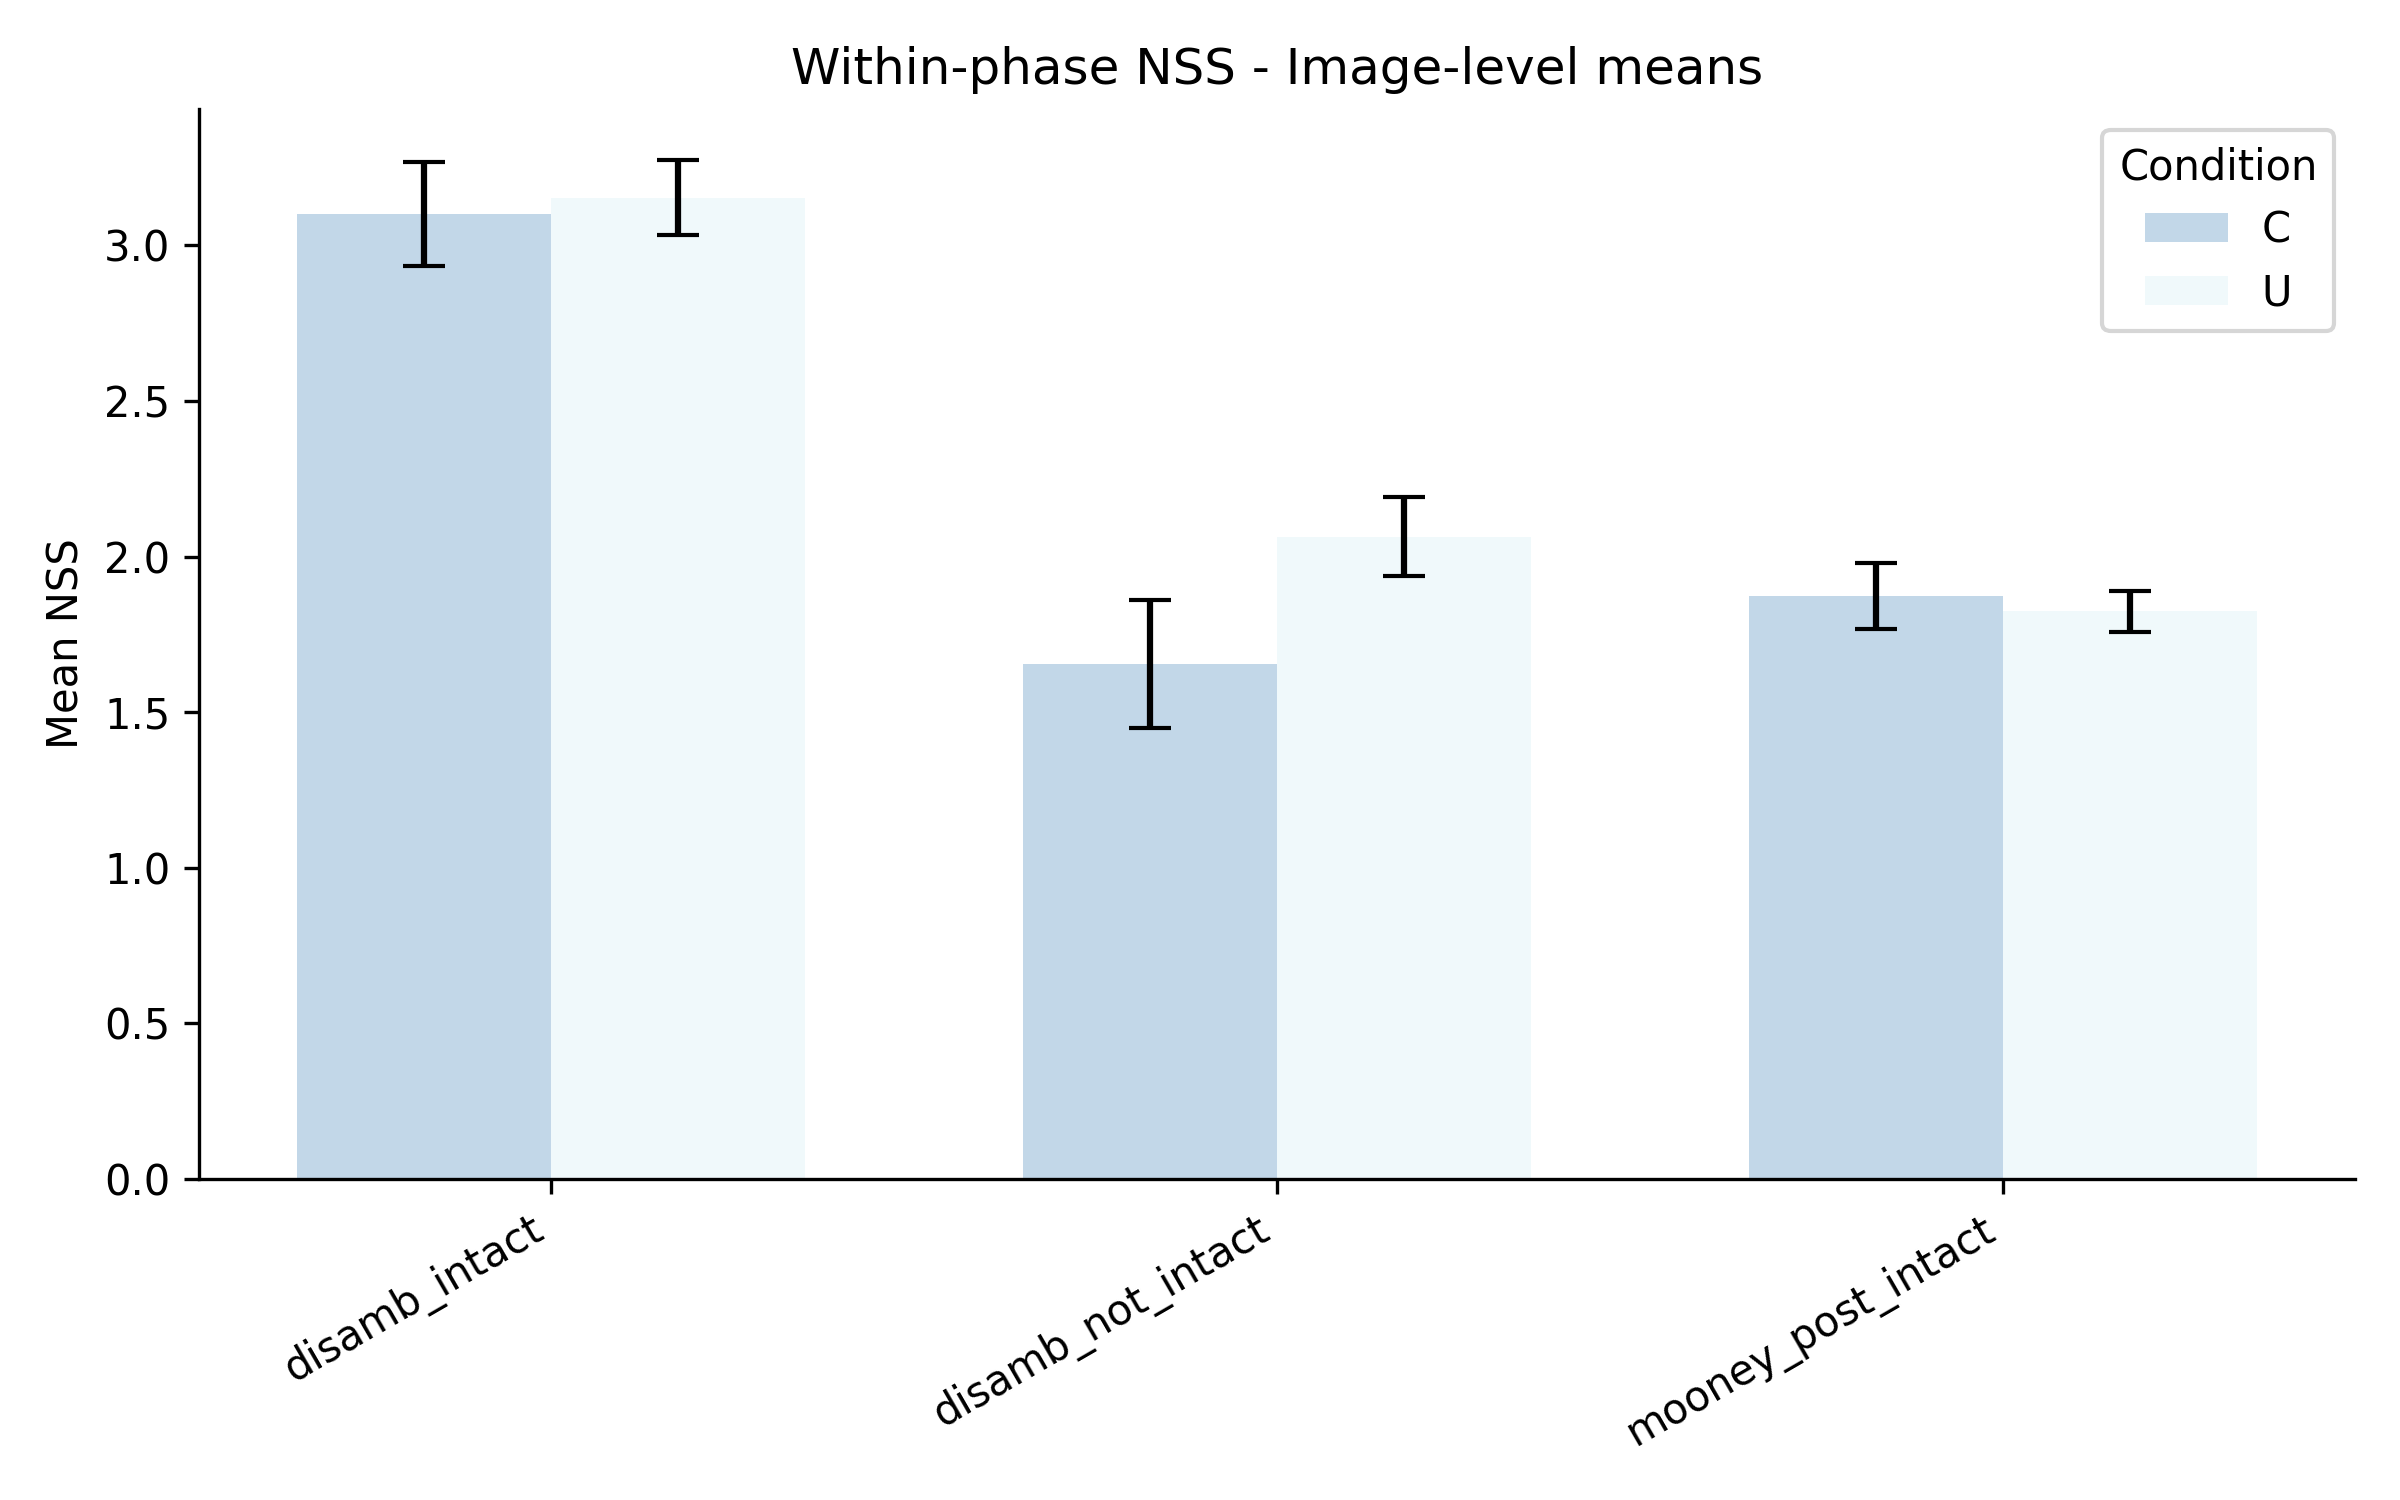
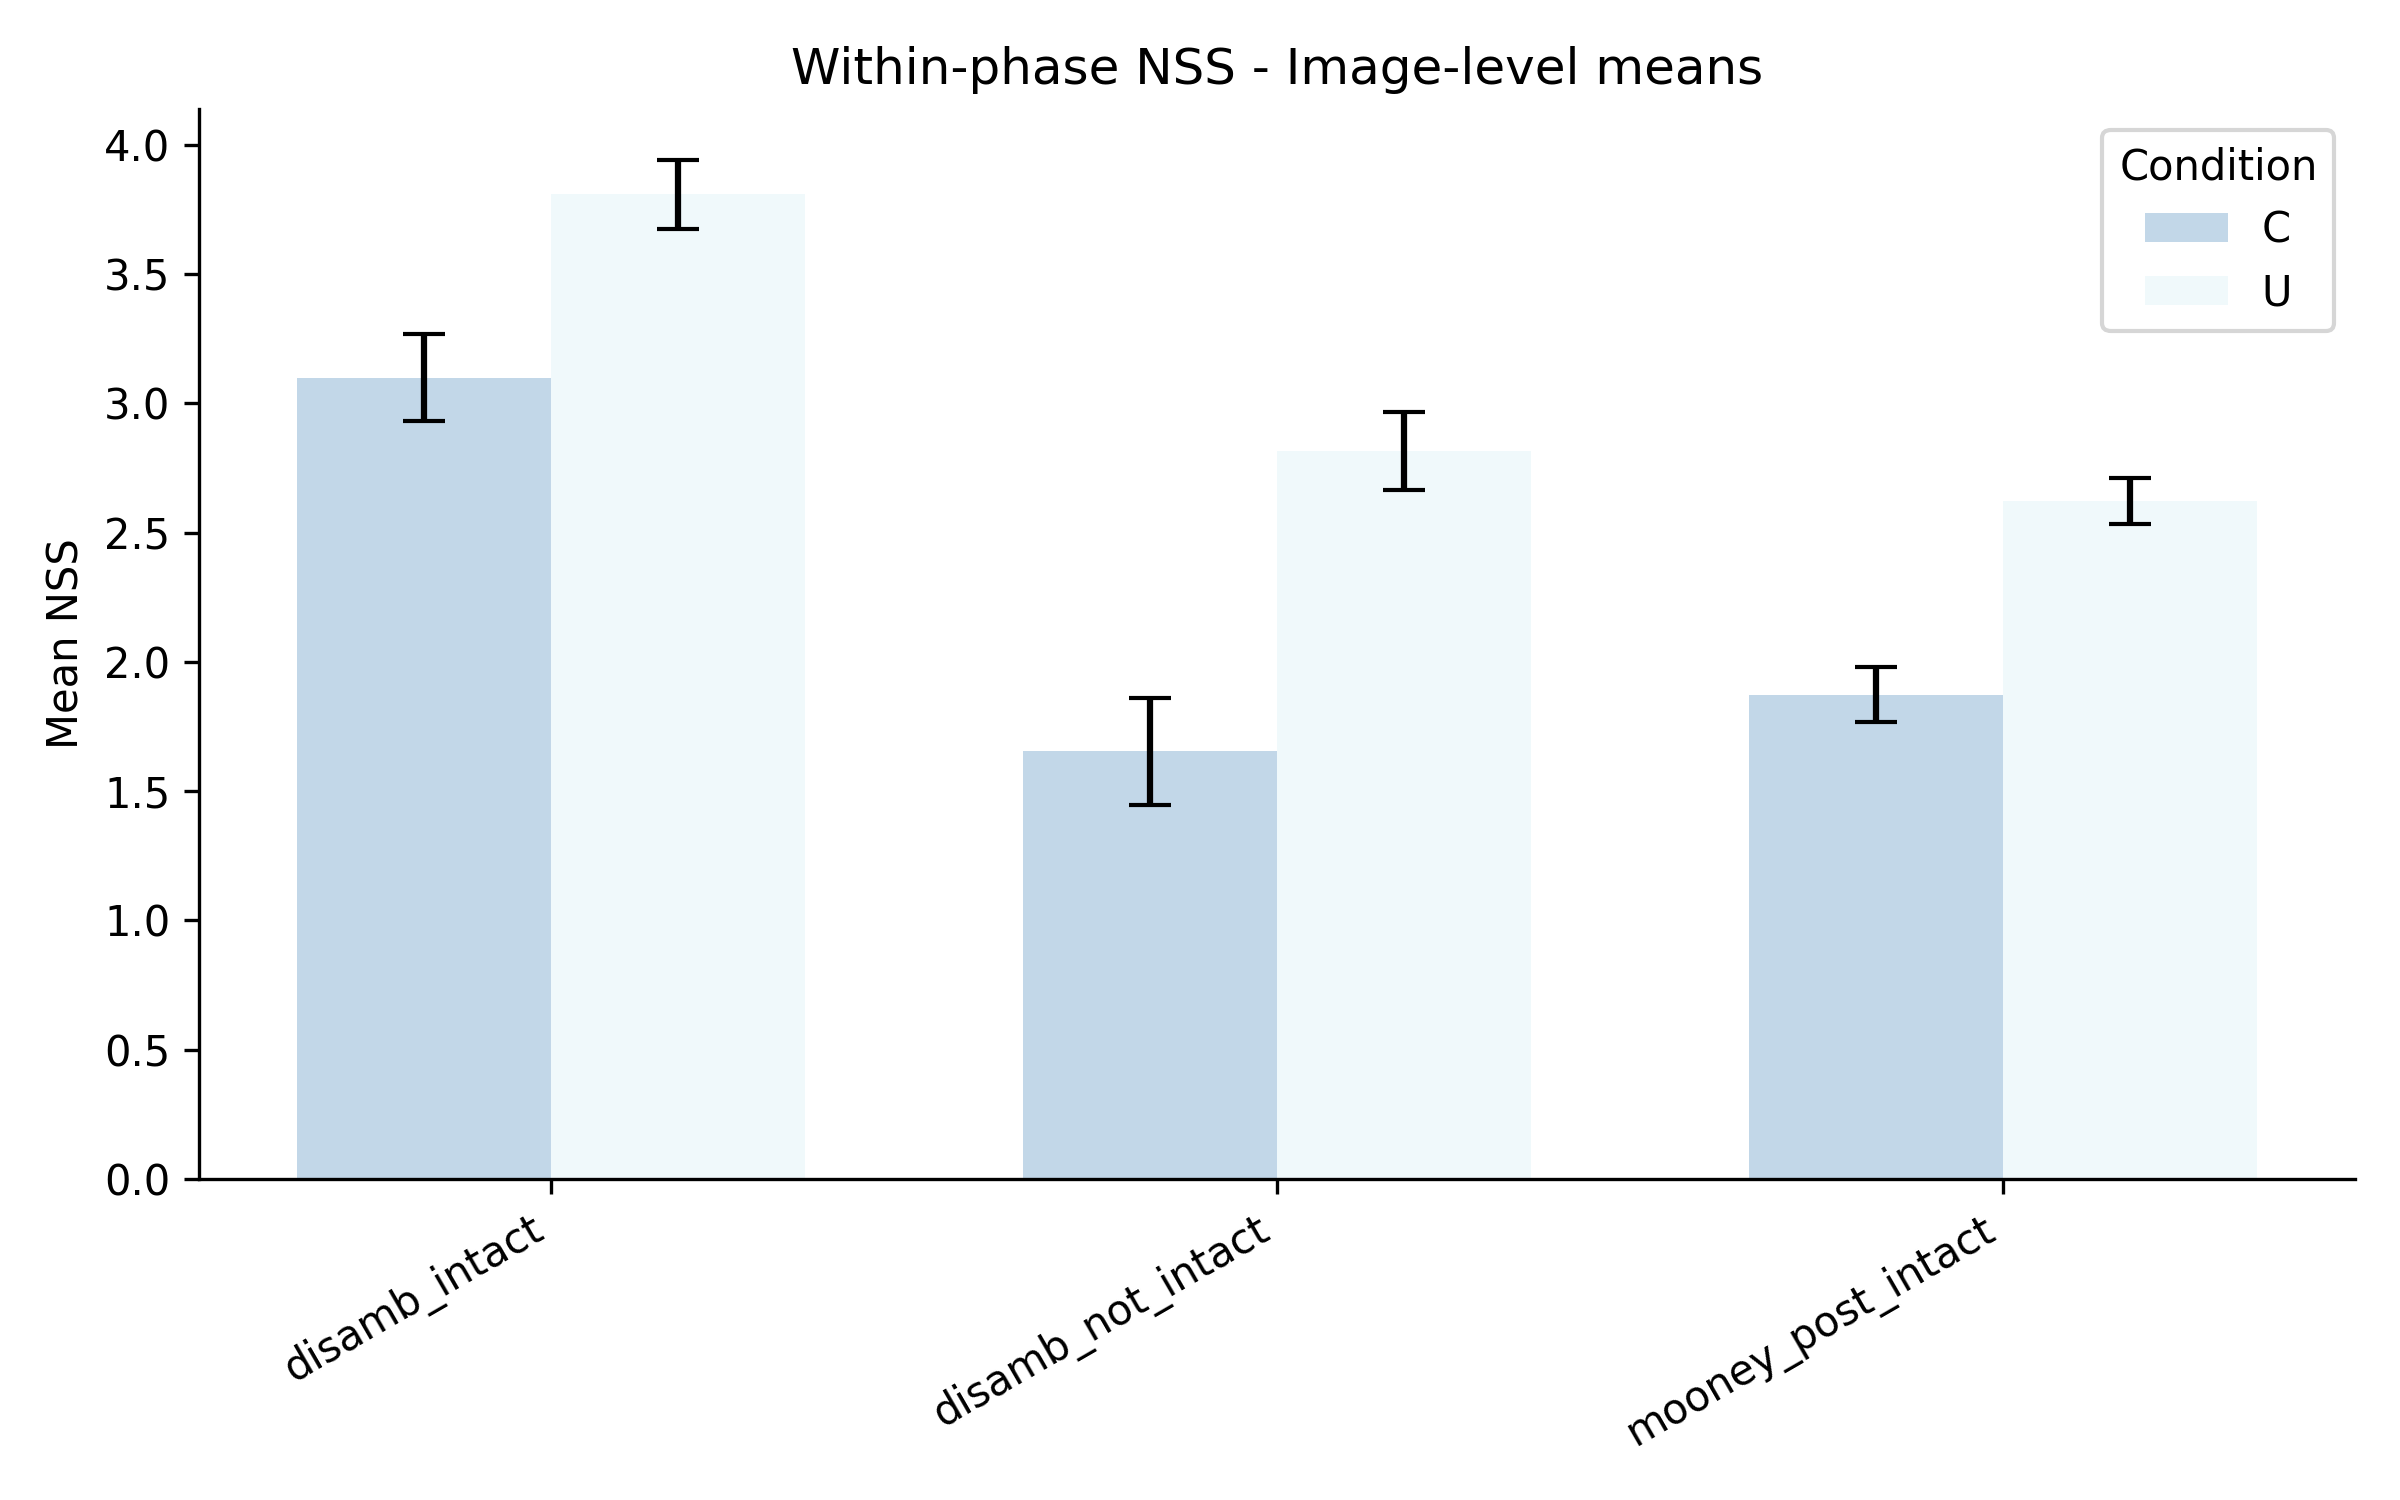
Make grouping trial-aware and use polars
Include trial information in NSS grouping and outputs, switch Scrapbook preprocessing to polars, and adjust import paths.

- Scripts/Analysis/OldNSS.py: sort and group by participant_str and trial_number to produce stable per-trial ordering; build participant identifiers that include a trial suffix, then split into Participant and Trial in the final export and add Trial to the melt id_vars.
- RunningScript.py: point analysis imports to Archive.* implementations (NewNSSExporter/NSSWithinPhase/NSSCrossPhase/NSSUtils).
- Scrapbook.py: replace pandas/parquet workflow with polars CSV reads from data/events_cleaned, concat rows, filter fixation events, and print simple row/null diagnostics (replaces previous image/participant counting logic).
- .gitignore: add analysesresultsNEWPDD to ignored paths.
- Two figure PNGs were updated (binary changes).

These changes make NSS calculations trial-aware, move to archived analysis modules, and streamline a lightweight preprocessing/debugging script using polars.

diff --git a/Scrapbook.py b/Scrapbook.py
@@ -1,24 +1,21 @@
-import pandas as pd
-from pathlib import Path
+import polars as pl
 
-fixations = pd.read_parquet("data/NSS_all_fixations_clean.parquet")
+# Re-run a stripped down version of the diagonal_relaxed merge
+import os, re
+INPUT_DIR = "data/events_cleaned"
+FILENAME_PATTERN = re.compile(r"s_([A-Za-z]+)_(\d+)\.csv")
+dfs = []
+files = sorted([f for f in os.listdir(INPUT_DIR) if f.endswith(".csv")])
+for filename in files:
+    match = FILENAME_PATTERN.match(filename)
+    if not match:
+        continue
+    df = pl.read_csv(os.path.join(INPUT_DIR, filename), infer_schema_length=10000)
+    dfs.append(df)
 
-mooney = fixations[
-    (fixations["image_type"] == "mooney_post_intact") &
-    (fixations["awareness"] == "conscious_unaware")
-]
+full_df = pl.concat(dfs, how="diagonal_relaxed")
+fixations_only = full_df.filter(pl.col("name") == "fixation")
 
-counts = (
-    mooney.groupby("ImageName")["participant"]
-    .nunique()
-    .reset_index(name="n_participants")
-    .sort_values("n_participants", ascending=False)
-)
-
-print(f"Total images with any conscious_unaware fixations: {len(counts)}")
-print(f"Images with >= 2 participants: {(counts['n_participants'] >= 2).sum()}")
-print(f"Images with exactly 1 participant: {(counts['n_participants'] == 1).sum()}")
-print(f"\nDistribution of participant counts:")
-print(counts["n_participants"].value_counts().sort_index())
-print(f"\nTop 10 images by participant count:")
-print(counts.head(10))
+print(f"Total fixation rows before image_type/null filtering: {len(fixations_only)}")
+print(f"Nulls in 'phase': {fixations_only['phase'].is_null().sum()}")
+print(f"Nulls in 'condition': {fixations_only['condition'].is_null().sum()}")

diff --git a/Scripts/Analysis/OldNSS.py b/Scripts/Analysis/OldNSS.py
@@ -285,8 +285,8 @@ def _coords_in_fixmaps_order(df_group: pd.DataFrame,pixels_per_vdegree: float,H:
         return coords
 
     # stable + robust ordering
-    dfg = df_group.assign(participant_str=df_group["participant"].astype(str)).sort_values("participant_str")
-    g = dfg.groupby("participant_str", dropna=False)
+    dfg = df_group.assign(participant_str=df_group["participant"].astype(str)).sort_values(["participant_str", "trial_number"])
+    g = dfg.groupby(["participant_str", "trial_number"], dropna=False)
 
     for _, df_subj in g:
         xdeg = pd.to_numeric(df_subj["x_deg_centered"], errors="coerce").to_numpy()
@@ -621,7 +621,10 @@ def calculate_NSS_crossphase(
         awareness_groups = df_group_all.groupby("awareness")
 
         for awareness_val, df_group in awareness_groups:
-            participant_ids = sorted(df_group["participant"].astype(str).unique())
+            participant_ids = sorted(
+                (df_group["participant"].astype(str) + "_t" + df_group["trial_number"].astype(str)).unique(),
+                key=lambda x: (x.split('_t')[0], int(x.split('_t')[1]))
+            )
             coords_list = _coords_in_fixmaps_order(df_group, pixels_per_vdegree, H, W)
             n_subj = len(coords_list)
 
@@ -1132,12 +1135,13 @@ if __name__ == "__main__":
         for subj in img_data['subject']:
             if 'ParticipantID' in subj: # Only works if you did Step 1
                 flat_data.append({
-                    'Participant': subj['ParticipantID'],
+                    'Participant': subj['ParticipantID'].split('_t')[0],
                     'Image': image_name,
                     'Session': session,
                     'NSS_Intact': subj['NSS_intact'],
                     'NSS_Scrambled': subj['NSS_scrambled'],
-                    'Awareness': img_data['awareness']
+                    'Awareness': img_data['awareness'],
+                    'Trial': subj['ParticipantID'].split('_t')[1],
                 })
 
     # 2. Convert to DataFrame and Aggregate
@@ -1150,7 +1154,7 @@ if __name__ == "__main__":
     
     # Let's melt it fully for you so it is perfectly ready for LMM
     df_long_fully_melted = df_long.melt(
-        id_vars=['Participant', 'Image', 'Session', 'Awareness'],
+        id_vars=['Participant', 'Image', 'Session', 'Awareness', 'Trial'],
         value_vars=['NSS_Intact', 'NSS_Scrambled'],
         var_name='ReferenceMap', 
         value_name='NSS'

diff --git a/RunningScript.py b/RunningScript.py
@@ -3,10 +3,10 @@
 import pymovements as pm
 import Scripts.Preprocessing.Preprocessing as prep
 import Settings as settings
-from Scripts.Analysis.NewNSSExporter import export_nss_fixations
-from Scripts.Analysis.NSSWithinPhase import run_within_phase_nss
-from Scripts.Analysis.NSSCrossPhase import run_cross_phase_nss
-from Scripts.Analysis.NSSUtils import BLEND_TRIALS
+from Archive.NewNSSExporter import export_nss_fixations
+from Archive.NSSWithinPhase import run_within_phase_nss
+from Archive.NSSCrossPhase import run_cross_phase_nss
+from Archive.NSSUtils import BLEND_TRIALS
 
 #%% How to use
 """